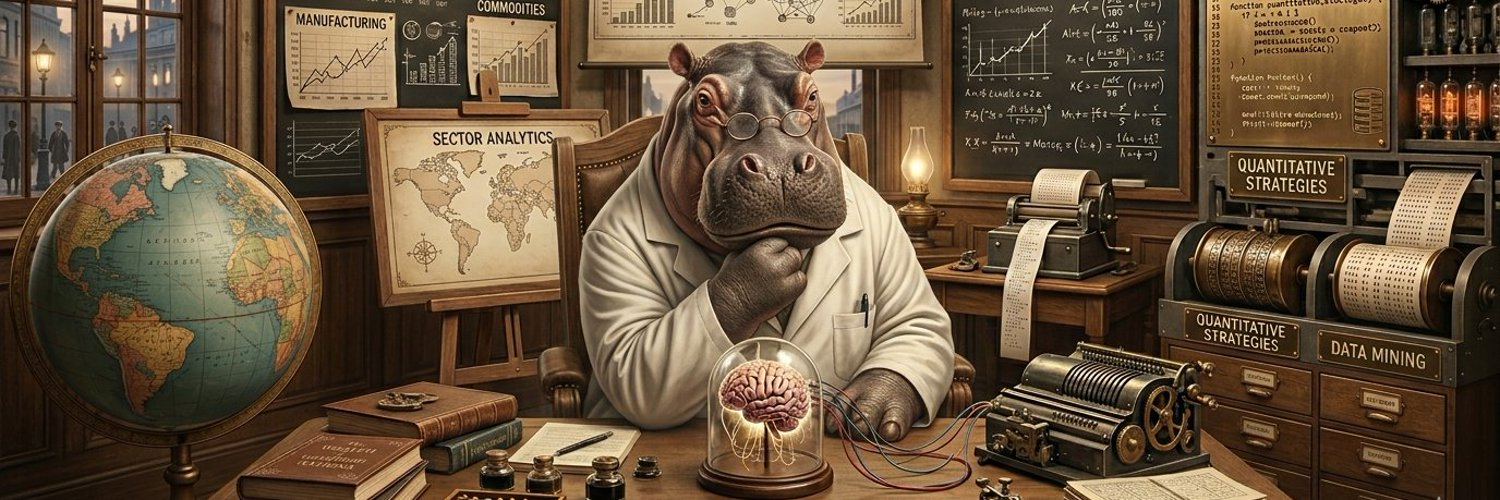
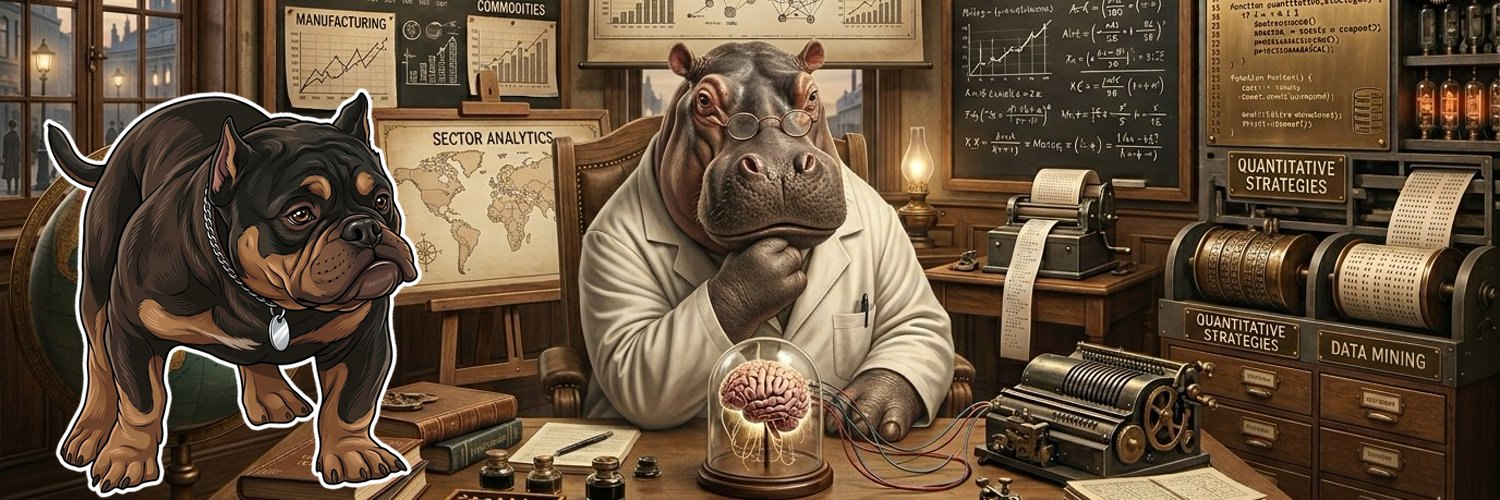
Hero: King Hippopotamus x American Bully co-branding, sticker and social card
Claude-Session: https://claude.ai/code/session_01NxaMj47HQHypa9CR4iYMGc

Changed region(s): [[0.0307, 0.18, 0.3067, 1.0]]

diff --git a/index.html b/index.html
@@ -1,4 +1,4 @@
-<!doctype html><html lang="he" dir="rtl"><head><meta charset="utf-8"><meta name="viewport" content="width=device-width,initial-scale=1,viewport-fit=cover"><meta name="description" content="King Hippopotamus · OpenSource Lib: יותר מ-1,500 כלים חופשיים לאירוח עצמי, ממופים ומדורגים במקום אחד. השרת שלך, הנתונים שלך, הכללים שלך."><style>:root{color-scheme:light;padding-top:env(safe-area-inset-top,0px);padding-bottom:env(safe-area-inset-bottom,0px)}body{margin:0}img{max-width:100%}[hidden]{display:none!important}</style></head><body><meta property="og:type" content="website"><meta property="og:title" content="ארגז הכלים לאירוח עצמי · King Hippopotamus"><meta property="og:description" content="השרת שלך. הנתונים שלך. הכללים שלך. יותר מ-1,500 כלים חופשיים לאירוח עצמי, ממופים ומדורגים במקום אחד."><meta property="og:url" content="https://thekinghippopotamus.github.io/OpenSource-lib/"><meta property="og:image" content="https://thekinghippopotamus.github.io/OpenSource-lib/brand/og.jpg"><meta property="og:image:width" content="1500"><meta property="og:image:height" content="500"><meta name="twitter:card" content="summary_large_image"><title>ארגז הכלים לאירוח עצמי</title>
+<!doctype html><html lang="he" dir="rtl"><head><meta charset="utf-8"><meta name="viewport" content="width=device-width,initial-scale=1,viewport-fit=cover"><meta name="description" content="King Hippopotamus × American Bully · OpenSource Lib: יותר מ-1,500 כלים חופשיים לאירוח עצמי, ממופים ומדורגים במקום אחד. השרת שלך, הנתונים שלך, הכללים שלך."><style>:root{color-scheme:light;padding-top:env(safe-area-inset-top,0px);padding-bottom:env(safe-area-inset-bottom,0px)}body{margin:0}img{max-width:100%}[hidden]{display:none!important}</style></head><body><meta property="og:type" content="website"><meta property="og:title" content="ארגז הכלים לאירוח עצמי · King Hippopotamus × American Bully"><meta property="og:description" content="השרת שלך. הנתונים שלך. הכללים שלך. יותר מ-1,500 כלים חופשיים לאירוח עצמי, ממופים ומדורגים במקום אחד."><meta property="og:url" content="https://thekinghippopotamus.github.io/OpenSource-lib/"><meta property="og:image" content="https://thekinghippopotamus.github.io/OpenSource-lib/brand/og.jpg"><meta property="og:image:width" content="1500"><meta property="og:image:height" content="500"><meta name="twitter:card" content="summary_large_image"><title>ארגז הכלים לאירוח עצמי</title>
 <meta name="claude:viewport-fit-sides" content="cover">
 <link rel="preconnect" href="https://fonts.googleapis.com">
 <link rel="preconnect" href="https://fonts.gstatic.com" crossorigin>
@@ -48,7 +48,11 @@ h1,h2,h3,h4{text-wrap:balance;margin:0}
 .eyebrow{font-family:var(--f-mono);font-size:11.5px;letter-spacing:.06em;color:var(--muted);text-transform:uppercase;direction:ltr;text-align:right}
 .top h1{font-family:var(--f-display);font-weight:700;font-size:clamp(46px,13vw,72px);line-height:.92;letter-spacing:.005em;margin-top:6px}
 .top h1 span{color:var(--accent)}
-.brandimg{margin:0 0 16px;aspect-ratio:3/1;border-radius:18px;overflow:hidden;background:var(--sunk);border:1px solid var(--line)}
+.brandhero{position:relative;margin:0 0 36px}
+.nm{white-space:nowrap;color:var(--ink);font-weight:600}
+@media (max-width:520px){.eb-x{display:none}}
+.bully{position:absolute;left:10px;bottom:-30px;width:clamp(96px,27%,200px);height:auto;filter:drop-shadow(0 6px 10px rgba(0,0,0,.35));transform:rotate(-4deg);pointer-events:none}
+.brandimg{margin:0;aspect-ratio:3/1;border-radius:18px;overflow:hidden;background:var(--sunk);border:1px solid var(--line)}
 .brandimg img{display:block;width:100%;height:100%;object-fit:cover}
 .lede{color:var(--muted);margin:10px 0 0;max-width:62ch;font-size:14.5px}
 .lede strong{display:block;color:var(--ink);font-weight:700;font-size:16.5px;margin-bottom:4px}
@@ -505,10 +509,13 @@ nav.tabs a[aria-current="page"] svg{stroke-width:2.2}
 
 <div class="wrap">
   <header class="top">
+    <div class="brandhero">
     <figure class="brandimg"><img src="brand/hero.webp" srcset="brand/hero-900.webp 900w, brand/hero.webp 1500w" sizes="(max-width: 800px) 100vw, 800px" width="1500" height="500" fetchpriority="high" alt="King Hippopotamus: היפופוטם במשקפיים ובחלוק מעבדה יושב ליד שולחן עבודה עם מוח בפעמון זכוכית, גלובוס, מכונות נתונים ולוחות של אסטרטגיות כמותיות"></figure>
-    <div class="eyebrow">King Hippopotamus · OpenSource Lib</div>
+    <img class="bully" src="brand/bully-360.webp" srcset="brand/bully-360.webp 360w, brand/bully-720.webp 720w" sizes="200px" width="860" height="920" alt="American Bully: כלב בולי אמריקאי שרירי בצבעי שחור וחום עם שרשרת ותג כסוף">
+    </div>
+    <div class="eyebrow">King Hippopotamus × American Bully<span class="eb-x"> · OpenSource Lib</span></div>
     <h1>ארגז הכלים <span>לאירוח עצמי</span></h1>
-    <p class="lede"><strong>השרת שלך. הנתונים שלך. הכללים שלך.</strong> יותר מ-1,500 כלים חופשיים לתשתית, לעסק ולבית, ממופים ומדורגים במקום אחד. מוצאים את הכלי, מבינים אותו בדקה ומרימים אותו אצלך. בלי מנויים ובלי נעילה.</p>
+    <p class="lede"><strong>השרת שלך. הנתונים שלך. הכללים שלך.</strong> יותר מ-1,500 כלים חופשיים לתשתית, לעסק ולבית, ממופים ומדורגים במקום אחד. <bdi class="nm">King Hippopotamus</bdi> מביא את הידע, <bdi class="nm">American Bully</bdi> את העוצמה: מוצאים את הכלי, מבינים אותו בדקה ומרימים אותו אצלך. בלי מנויים ובלי נעילה.</p>
     <div class="stats" id="stats"></div>
   </header>
 
